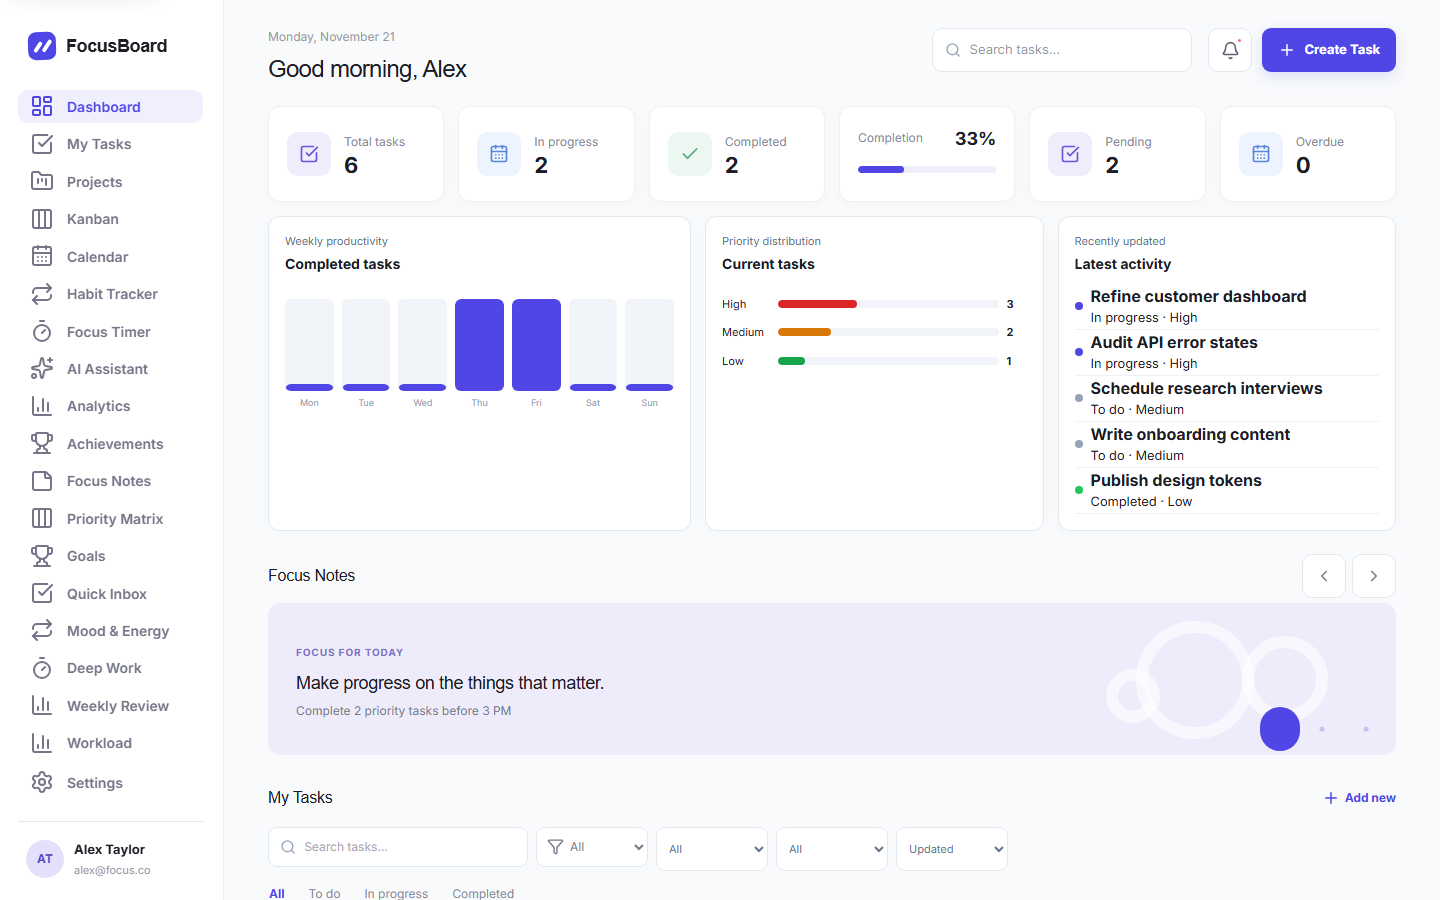
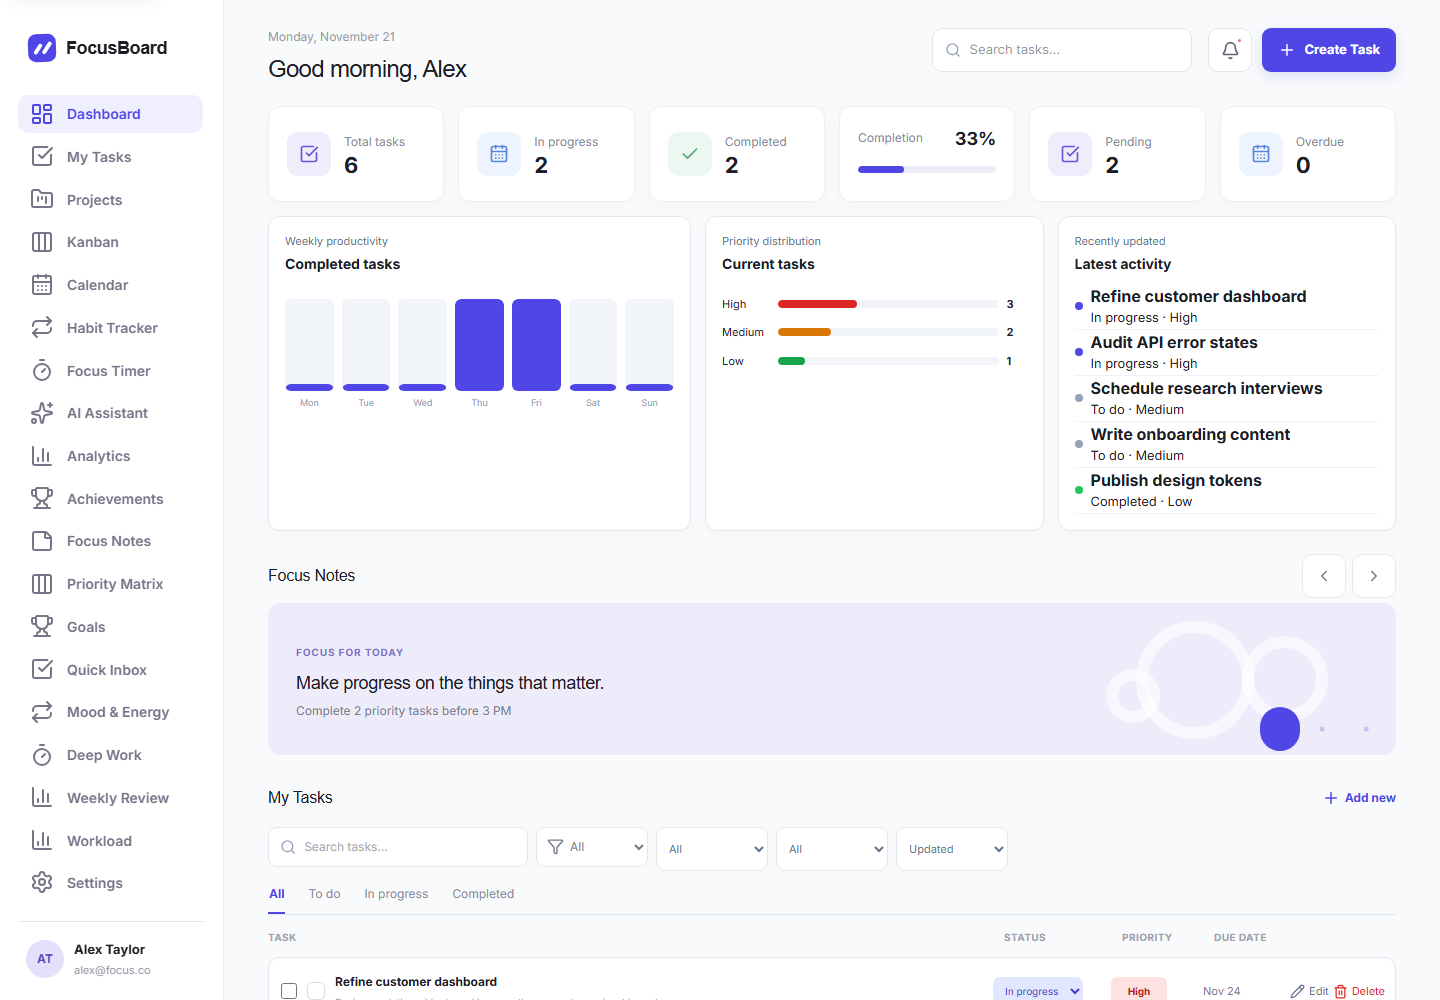
docs: complete FocusBoard submission details

diff --git a/README.md b/README.md
@@ -33,11 +33,13 @@ It is designed to feel like a lightweight personal productivity suite:
 
 ## Screenshots
 
-### Desktop experience
+Captured from the live application at the assignment reference sizes.
+
+### Desktop experience — 1440 × 1000
 
 ![FocusBoard desktop dashboard](./screenshots/desktop.png)
 
-### Mobile experience
+### Mobile experience — 390 × 1128
 
 <div align="center">
   <img src="./screenshots/mobile.png" alt="FocusBoard mobile dashboard" width="390">
@@ -232,6 +234,8 @@ Vitest is configured for the jsdom environment with Testing Library and uses a s
 
 ## Production Deployment
 
+**Live application:** [https://focusboard-dashboard-tan.vercel.app/](https://focusboard-dashboard-tan.vercel.app/)
+
 Create a static production build:
 
 ```bash
@@ -241,8 +245,7 @@ npm run build
 Deploy the generated `dist/` directory to a static host.
 
 Because FocusBoard uses React Router paths, configure your host to rewrite application routes such as `/tasks` and `/kanban` to `index.html`.
-
-No live URL is included until a deployment has been verified.
+The Vercel rewrite is configured in [`vercel.json`](./vercel.json). The deployed homepage and direct application routes have been checked.
 
 ### Static host example
 
